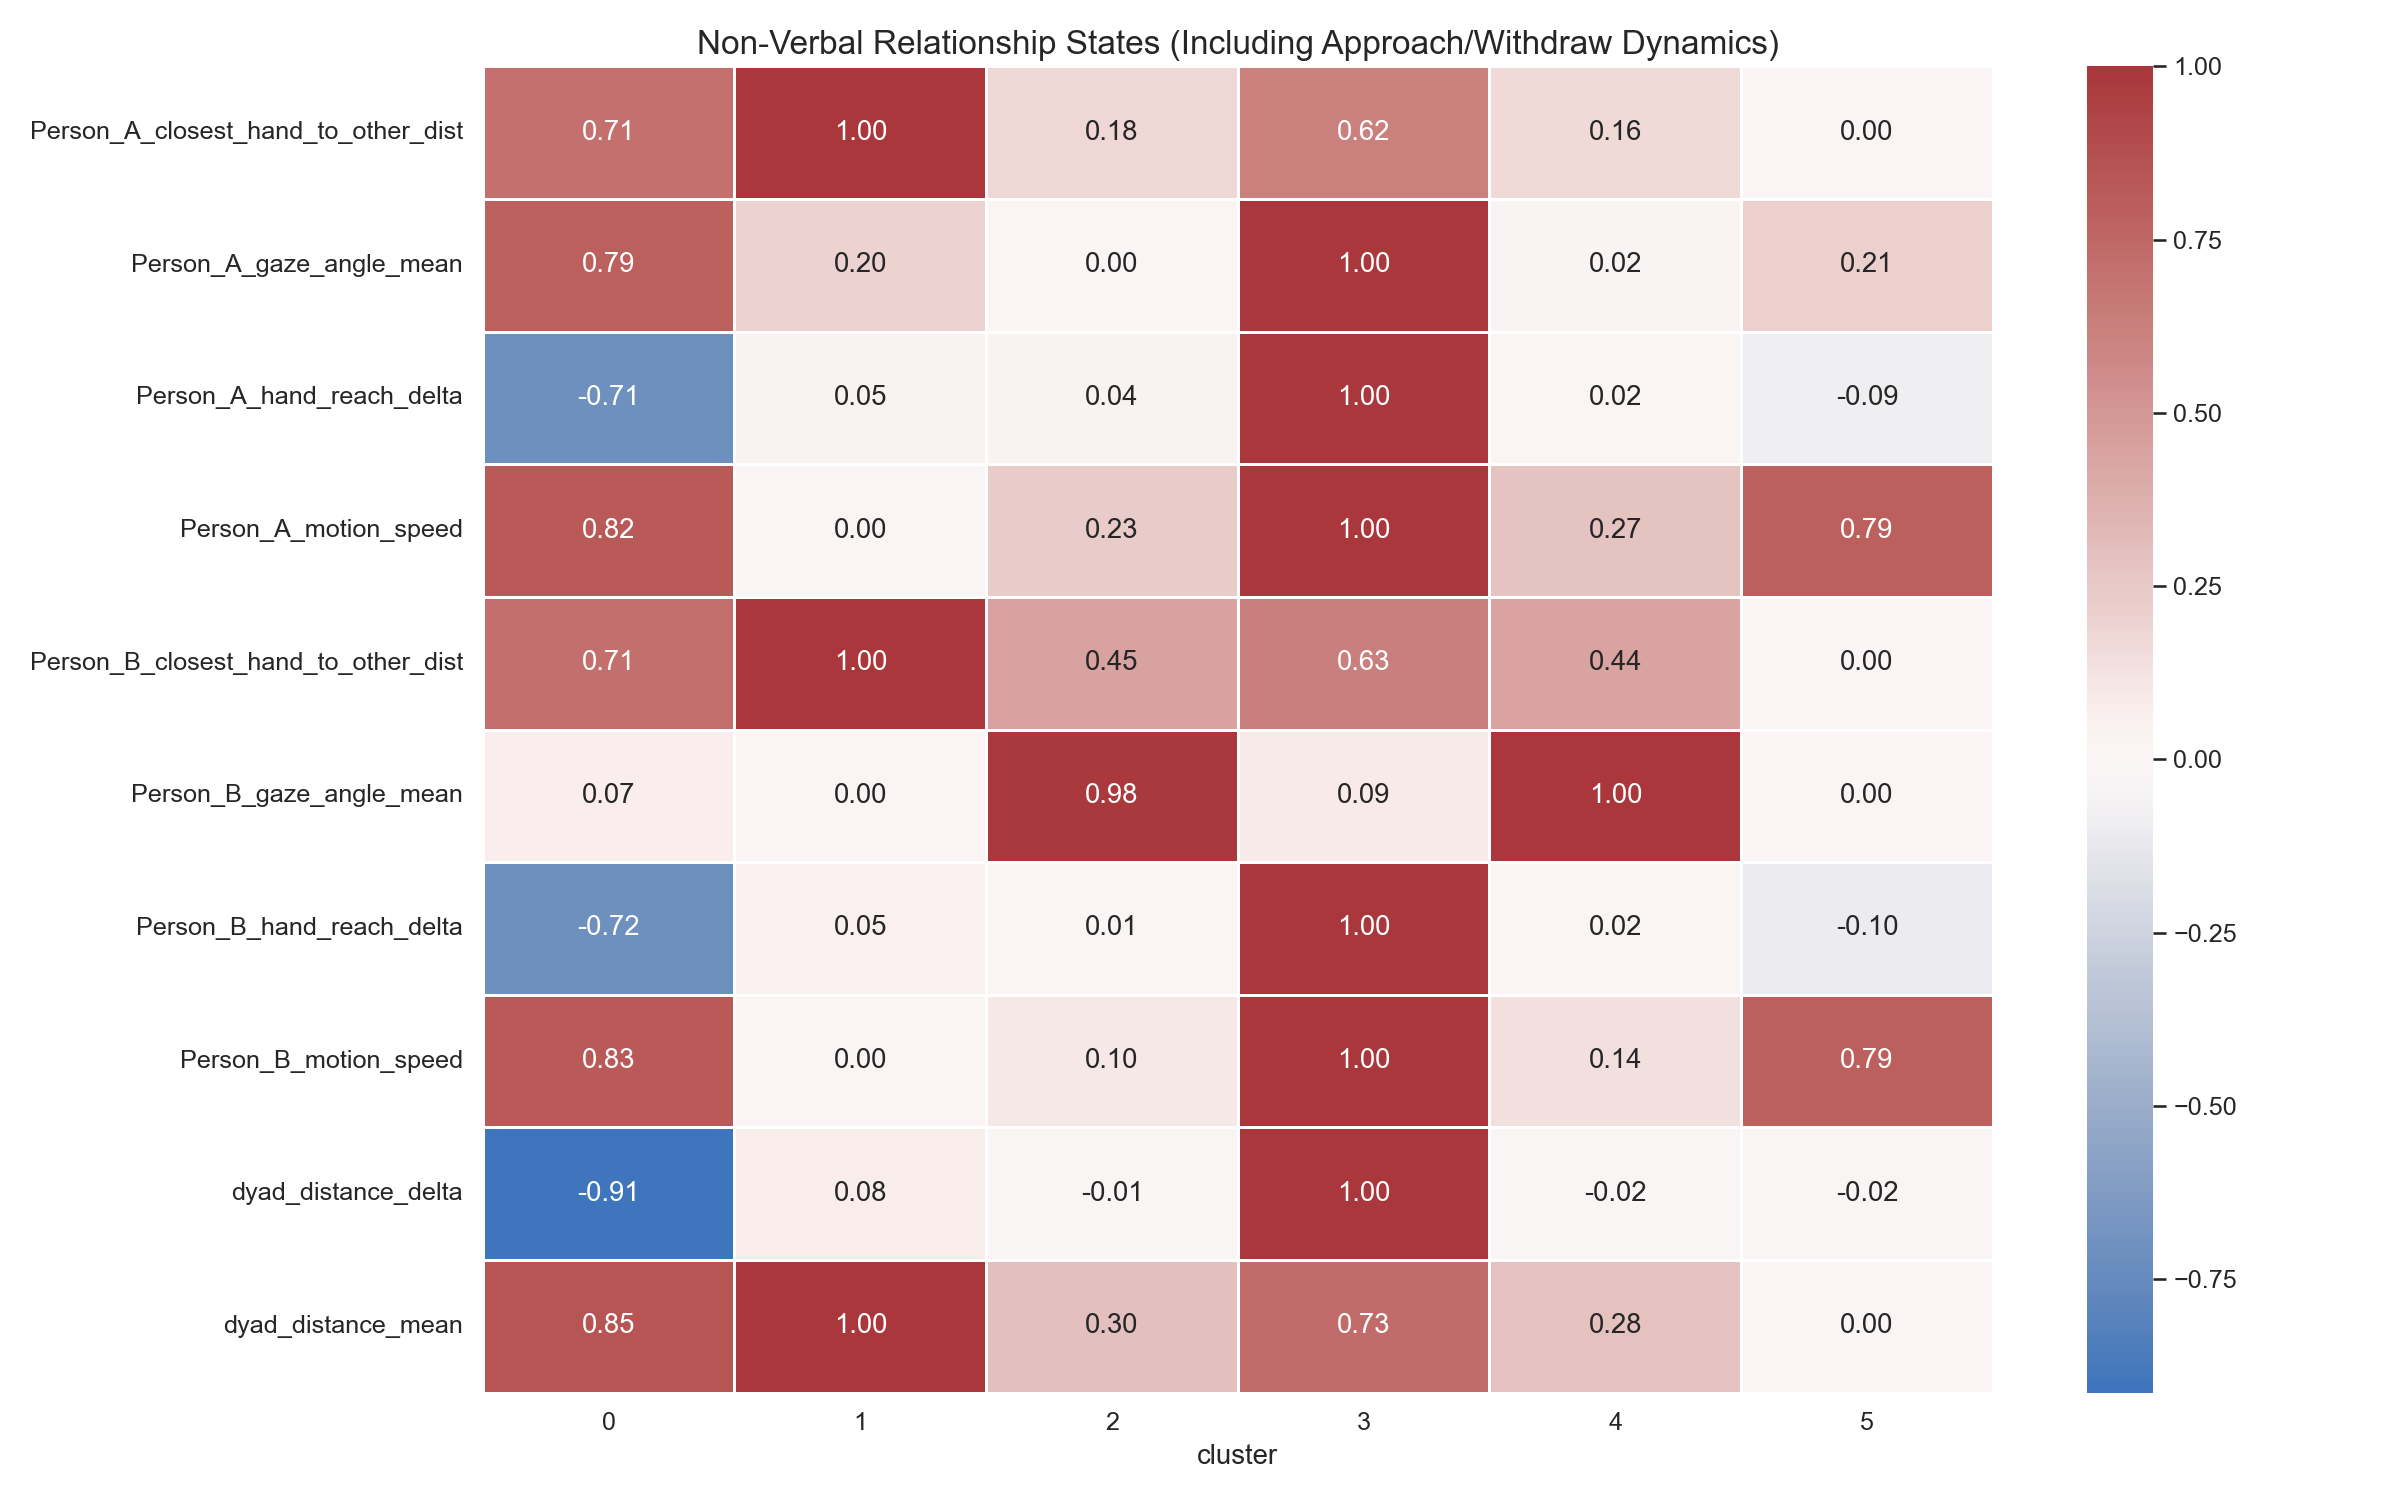
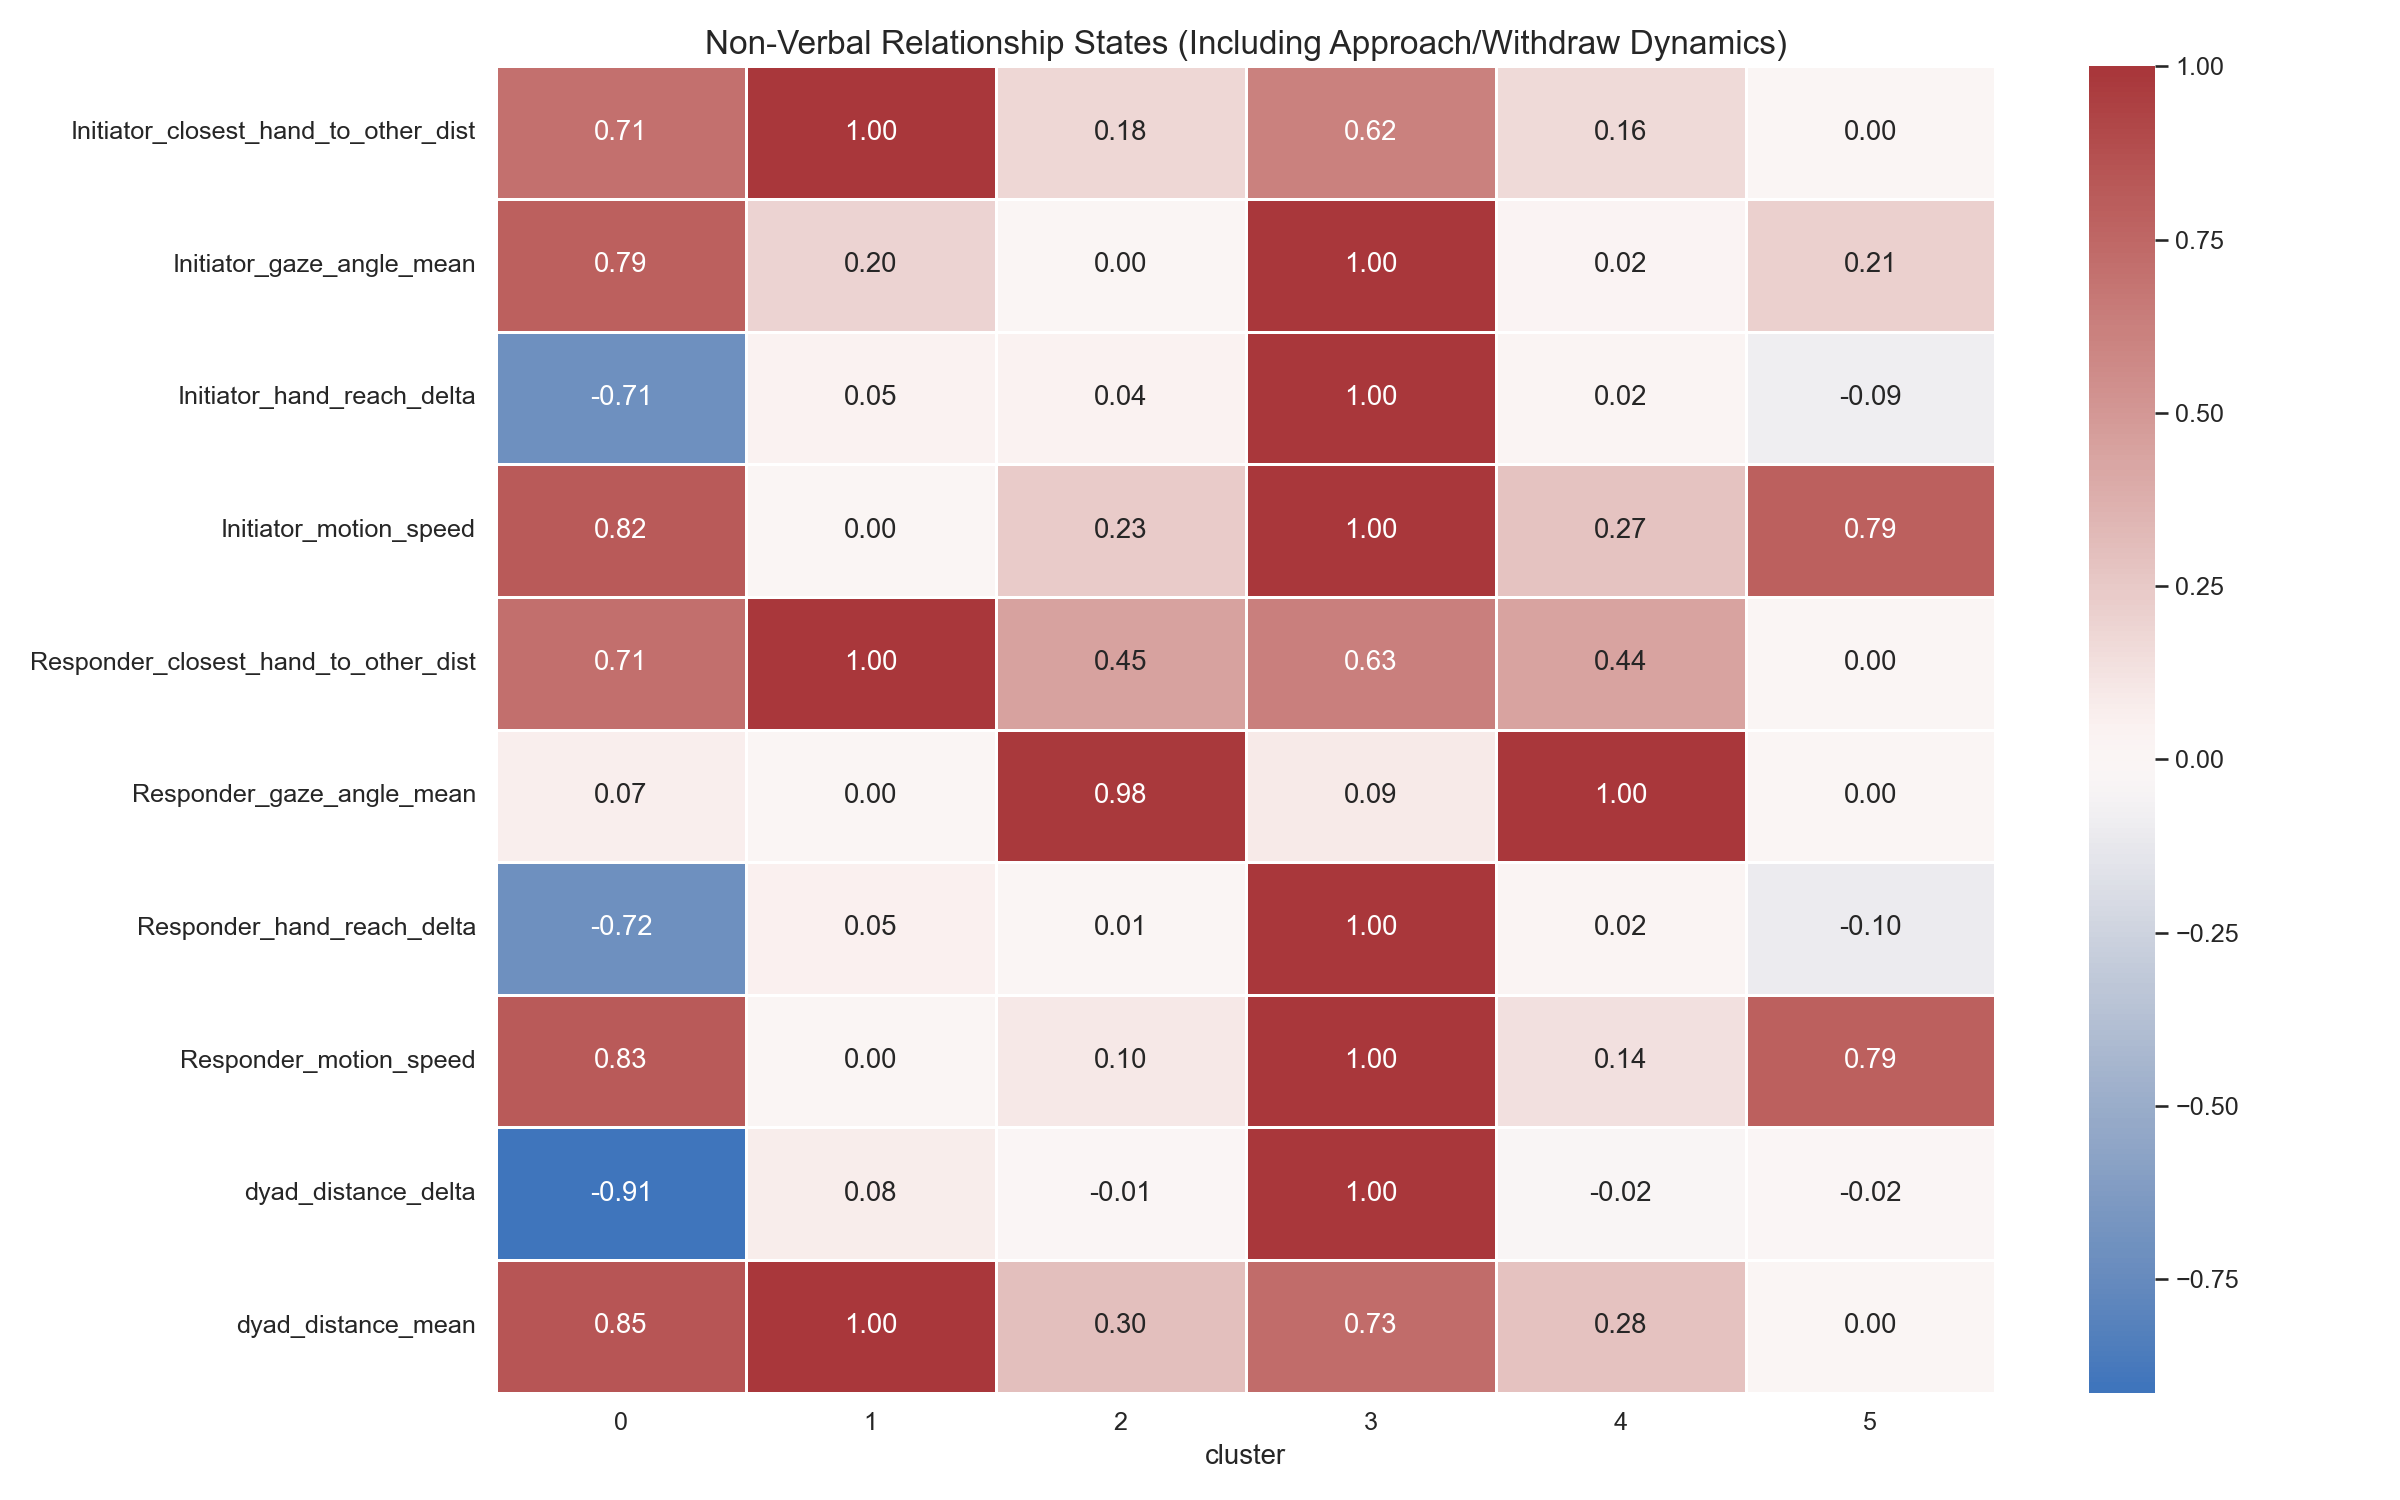
analyze_relationships updated

diff --git a/analiz/analyze_relationships.py b/analiz/analyze_relationships.py
@@ -191,7 +191,7 @@ for col in norm_profiles.columns:
 
 # Rename columns nicely
 def rename_for_display(c):
-    c = c.replace('p1_', 'Person_A_').replace('p2_', 'Person_B_')
+    c = c.replace('p1_', 'Initiator_').replace('p2_', 'Responder_')
     return c
 
 norm_profiles.columns = [rename_for_display(c) for c in norm_profiles.columns]

diff --git a/analiz/analysis_results.md b/analiz/analysis_results.md
@@ -2,7 +2,7 @@
 
 We successfully extracted and analyzed **131,907 valid frames** across all 44 sessions simultaneously. We computed features across sliding windows (2-second intervals) focusing specifically on how the two individuals react to each other (e.g., reaching vs. pulling back).
 
-We discovered 6 distinct **Relationship States (Clusters)**. Each cluster represents a common pattern of interaction between Person A (who we define as the more active person in that window) and Person B.
+We discovered 6 distinct **Relationship States (Clusters)**. Each cluster represents a common pattern of interaction between the **Initiator** (who we define dynamically as the more active person in that window) and the **Responder** (the partner in that window). By defining these roles dynamically rather than rigidly as "Person A" and "Person B," we capture a true dictionary of non-verbal interactions regardless of who performed the action.
 
 ## Visualizing the Discovered Behaviors
 
@@ -15,33 +15,33 @@ Below is the heatmap profile showing what characterizes each discovered interact
 Here is how we can interpret these clusters in the context of their responses to each other:
 
 ### Cluster 0: "Active Approach & Mutual Reaching" (507 windows)
-- **What's happening:** Person A is moving quickly and reaching toward Person B. In response, Person B is also slightly reaching.
-- **Key indicator:** High negative `Person_A_hand_reach_delta` and a negative `dyad_distance_delta`.
-- **Relationship dynamic:** High engagement. One person initiates an approach or points, and the other person leans in or reaches back.
+- **What's happening:** The Initiator is moving quickly and reaching toward the Responder. In response, the Responder is also slightly reaching.
+- **Key indicator:** High negative `Initiator_hand_reach_delta` and a negative `dyad_distance_delta`.
+- **Relationship dynamic:** High engagement. One person initiates an approach or points, and the partner leans in or reaches back.
 
-### Cluster 1: "Person A Reaching while Person B Pulls Back" (843 windows)
-- **What's happening:** Person A reaches toward Person B's head/body, but Person B is pulling their own hand away or shifting back.
-- **Key indicator:** Negative reach delta for Person A, but positive reach delta for Person B.
-- **Relationship dynamic:** Asymmetry. Person A is invading space or reaching out, and Person B is defensively reacting or yielding space.
+### Cluster 1: "Initiator Reaching while Responder Pulls Back" (843 windows)
+- **What's happening:** The Initiator reaches toward the Responder's head/body, but the Responder is pulling their own hand away or shifting back.
+- **Key indicator:** Negative reach delta for the Initiator, but positive reach delta for the Responder.
+- **Relationship dynamic:** Asymmetry. The Initiator is invading space or reaching out, and the Responder is defensively reacting or yielding space.
 
 ### Cluster 2: "Synchronized Withdrawing" (407 windows)
 - **What's happening:** Both individuals are moving apart.
 - **Key indicator:** High positive `dyad_distance_delta` and positive reach deltas for both people.
 - **Relationship dynamic:** Disengagement. They just finished an intense interaction and are both leaning back to baseline.
 
-### Cluster 3: "Person A Dominant with High Gaze" (425 windows)
-- **What's happening:** Person A is moving relatively fast and maintaining a very direct gaze angle toward Person B, while Person B is mostly still.
-- **Relationship dynamic:** Active speaking or demonstrating. Person A is the focal point, commanding attention, and Person B is the passive listener.
+### Cluster 3: "Initiator Dominant with High Gaze" (425 windows)
+- **What's happening:** The Initiator is moving relatively fast and maintaining a very direct gaze angle toward the Responder, while the Responder is mostly still.
+- **Relationship dynamic:** Active speaking or demonstrating. The Initiator is the focal point, commanding attention, and the Responder is the passive listener.
 
 ### Cluster 4: "Close Proximity Stillness" (458 windows)
 - **What's happening:** They are very close together (`dyad_distance_mean` is low, hand distances are low) but motion speed is near zero.
 - **Relationship dynamic:** Intimate/Focus State. They are likely looking at the same object or maintaining steady mutual gaze in close proximity without erratic movements.
 
-### Cluster 5: "Person A Retreats" (591 windows)
-- **What's happening:** Person A was close but is now rapidly pulling their hand back (high positive `Person_A_hand_reach_delta`).
-- **Relationship dynamic:** Reactionary yielding. Person A realizes they reached too far or finished an action and quickly retracts.
+### Cluster 5: "Initiator Retreats" (591 windows)
+- **What's happening:** The Initiator was close but is now rapidly pulling their hand back (high positive `Initiator_hand_reach_delta`).
+- **Relationship dynamic:** Reactionary yielding. The Initiator realizes they reached too far or finished an action and quickly retracts.
 
 ## Next Steps
 
 1. **Session-Specific Timelines:** The sequence of these states for every individual session has been saved to `session_clusters.csv`. For example, we can see a session start in "Close Proximity Stillness" (Cluster 4) and rapidly transition into "Active Approach" (Cluster 0). We can plot a timeline for specific sessions you find interesting.
-2. **Review Specific Pairs:** If some sessions belong to a specific pair of people (e.g., Order 1 vs Order 2), we can now filter this CSV to see if "Pair X" spends 80% of their time in "Mutual Reaching", whereas "Pair Y" spends most of their time in "Person A Reaching while B Pulls Back".
+2. **Review Specific Pairs:** If some sessions belong to a specific pair of people (e.g., Order 1 vs Order 2), we can now filter this CSV to see if "Pair X" spends 80% of their time in "Mutual Reaching", whereas "Pair Y" spends most of their time in "Initiator Reaching while Responder Pulls Back".